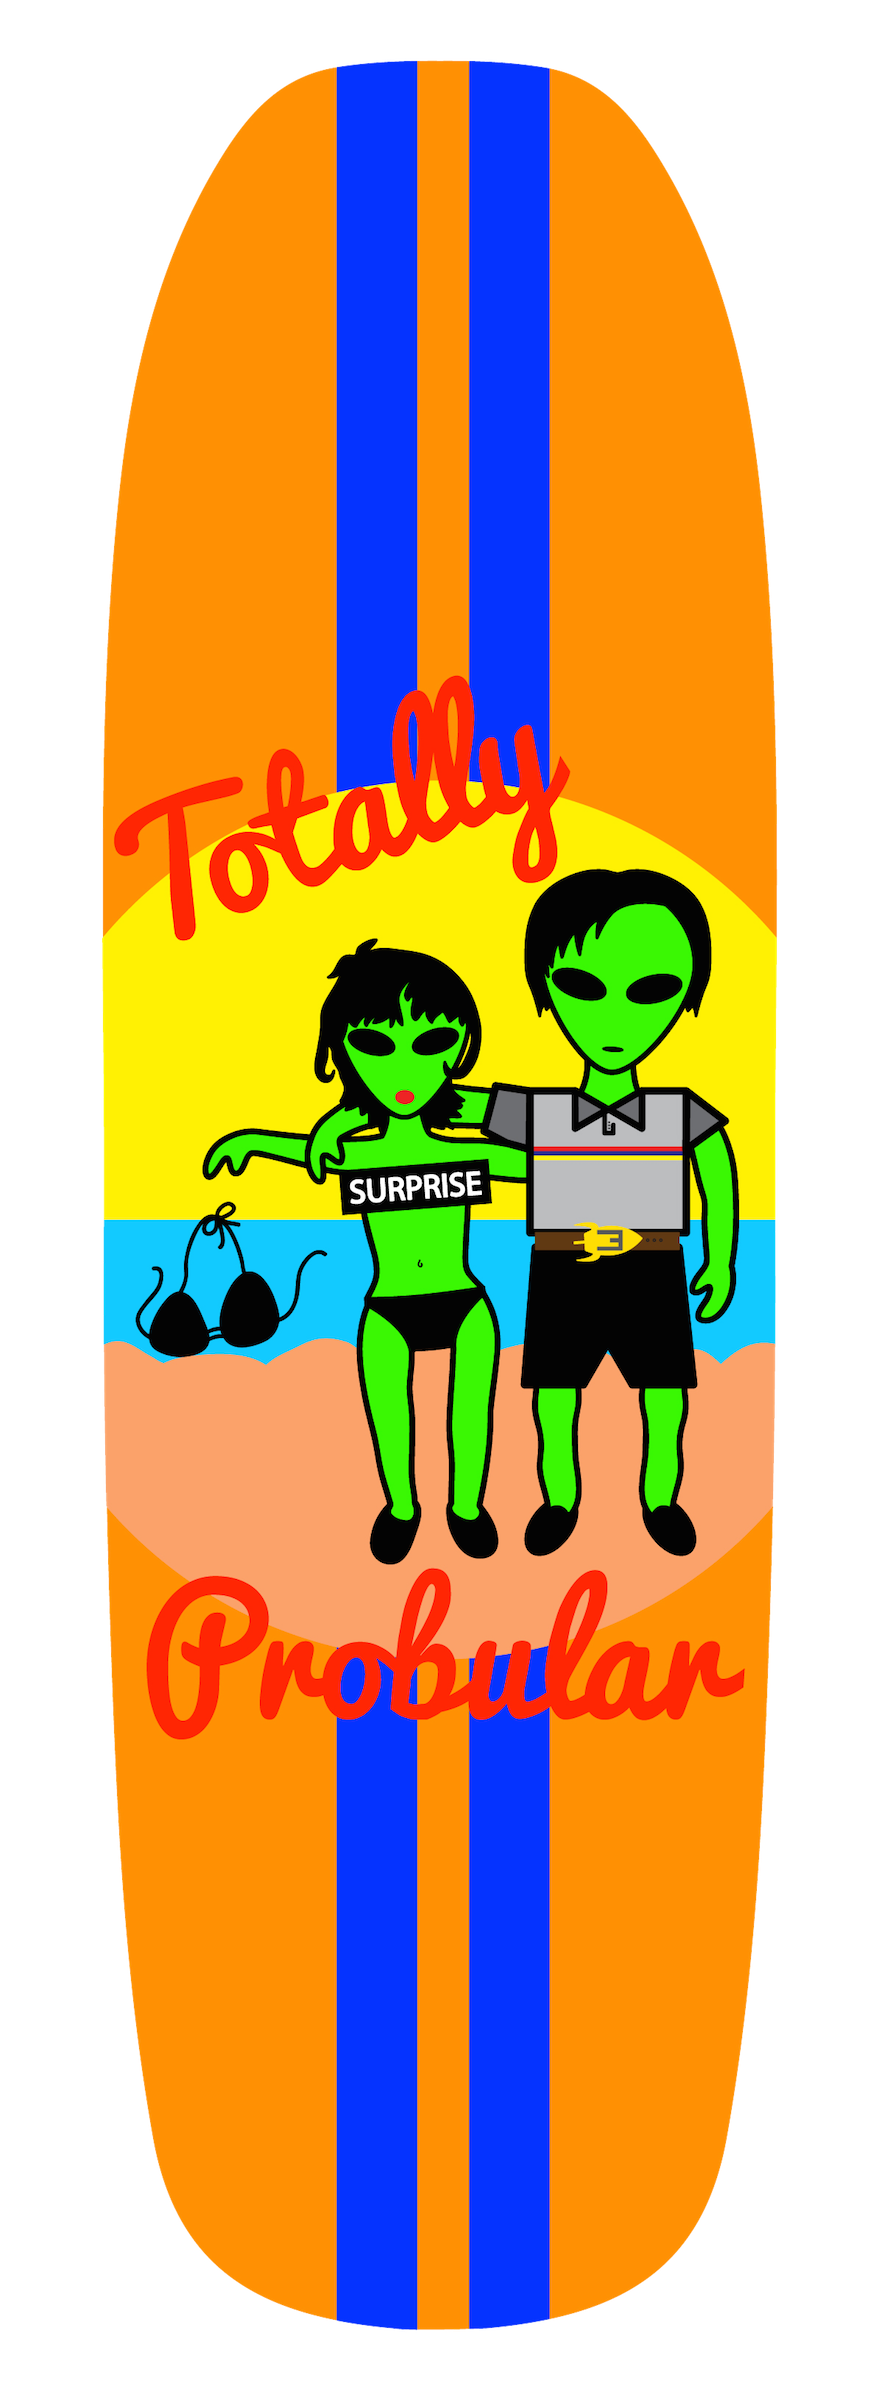
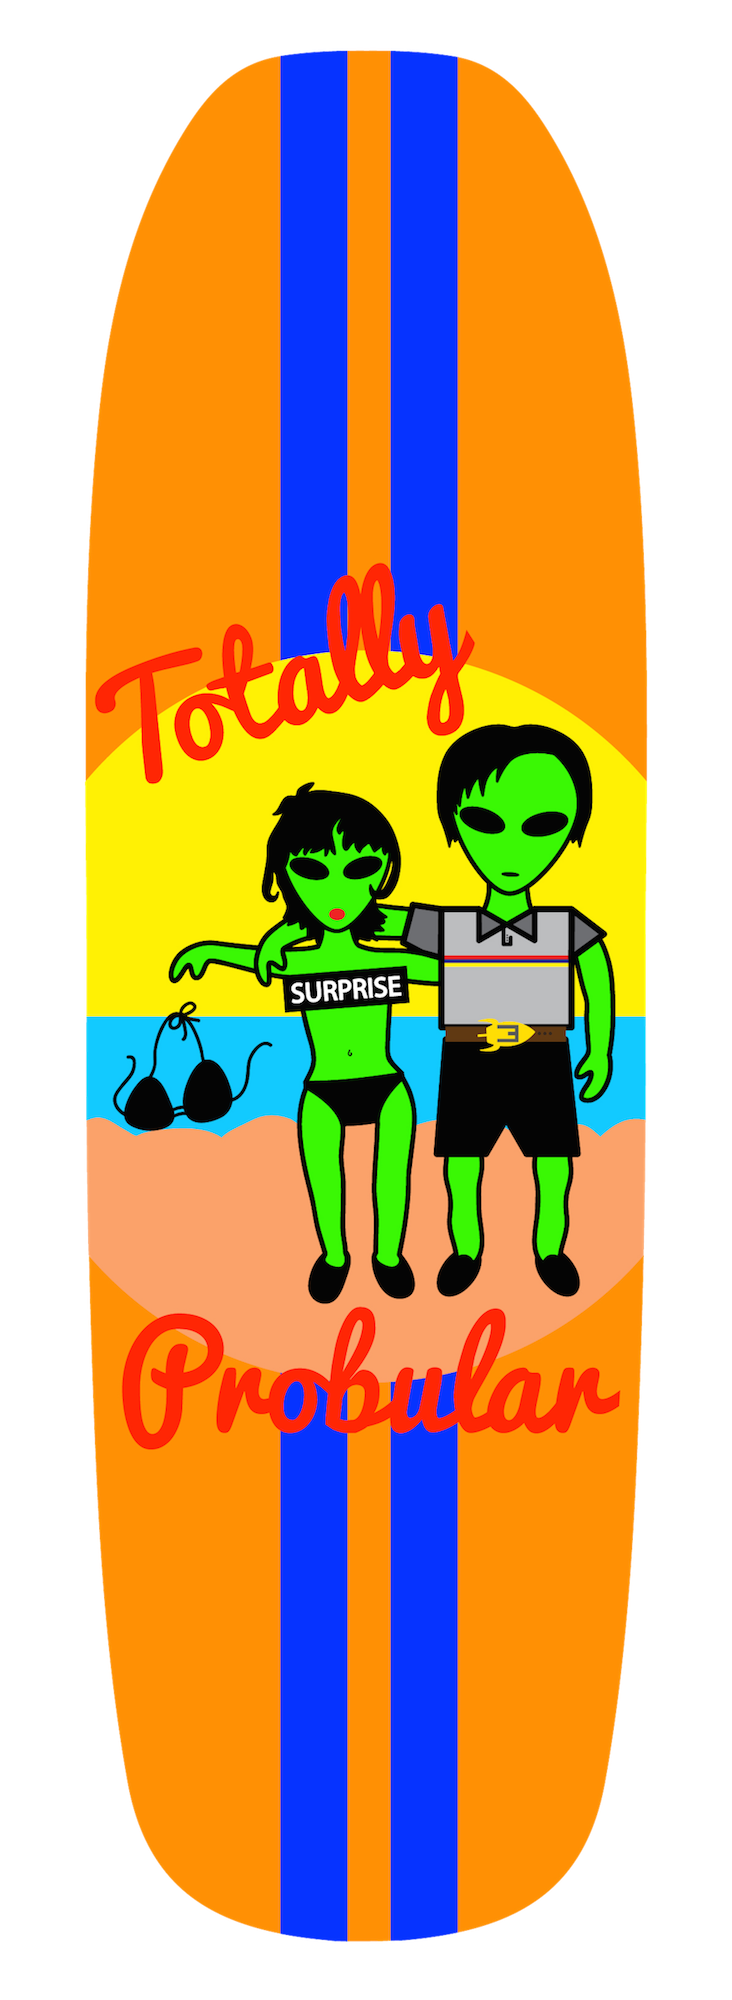
updated

Changed region(s): [[0.7814, 0.496, 0.8115, 0.527]]

diff --git a/designs.html b/designs.html
@@ -100,6 +100,7 @@
 						<br>
 							<div id="links-designs">
 								<h2 class="sub-header-size">Logos:</h2>
+  							
    							
     							<a href="images/logos/22.jpg" title="Yo! Where's My Car? App Logo" data-gallery><img src="images/logos/22.jpg" width="250" alt="Yo! Where's My Car? App Logo">
     							</a>
@@ -227,19 +228,18 @@
    									<a href="images/skateboards/girlfriend.png" title="Dreamwood Sk8erboards Girlfriend Graphic" data-gallery><img src="images/skateboards/girlfriend.png" width="250" alt="Dreamwood Sk8erboards Girlfriend Graphic">
     								</a>
     												
-   								
-   									<a href="images/graphics/image9.png" title="Lakai Contest Shirt" data-gallery><img src="images/graphics/image9.png" width="250" alt="Lakai Contest Shirt">
-    								</a>
-    								
     								
     								<a href="images/skateboards/curbalious.png" title="Dreamwood Sk8erboards Curbalious Graphic" data-gallery><img src="images/skateboards/curbalious.png" width="250" alt="Dreamwood Sk8erboards Curbalious Graphic">
+    								</a>
+    								
+    								<a href="images/graphics/image9.png" title="Lakai Contest Shirt" data-gallery><img src="images/graphics/image9.png" width="250" alt="Lakai Contest Shirt">
     								</a>
     								
     								
     								<a href="images/skateboards/bc-board.png" title="BC Skate Shop Deck Graphic" data-gallery><img src="images/skateboards/bc-board.png" width="250" alt="BC Skate Shop Deck Graphic">
     								</a>
     								
-    								<a href="images/skateboards/surprise.png" title="Surprise Deck Graphic" data-gallery><img src="images/skateboards/surprise.png" width="250" alt="Surprise Deck Graphic">
+    								<a href="images/skateboards/surprise.png" title="Surprise Deck Graphic" data-gallery><img src="images/skateboards/surprise.png" width="185" alt="Surprise Deck Graphic">
     								</a>
     								
  
@@ -260,6 +260,9 @@
 						<h1 class="align-center header-size"><u>Graphics:</u></h1>
 						<br><br>
 							
+    							<h2 class="sub-header-size">Logos:</h2>
+  							
+   							
     							<a href="images/logos/22.jpg" title="Yo! Where's My Car? App Logo" data-gallery><img src="images/logos/22.jpg" width="250" alt="Yo! Where's My Car? App Logo">
     							</a>
     							
@@ -294,13 +297,7 @@
     							</a>
     							    								
     							<br><br>
-    							
-    							<a href="images/businesscards/cg-bc.jpg" title="Carter Guthrie Business Card" data-gallery><img src="images/businesscards/cg-bc.jpg" width="250" alt="Carter Guthrie Business Card">
-    							</a>
-    							
-    								
-    							<br><br>
-    							
+    	
     							<a href="images/logos/entergalatic-express-02.jpg" title="Entergalatic Express Logo" data-gallery><img src="images/logos/entergalatic-express-02.jpg" width="250" alt="Entergalatic Express Logo">
     							</a>
     								
@@ -312,11 +309,6 @@
     							<br><br>
     							
     							<a href="images/logos/m00n-logo-07.png" title="m00n Clothing Logo" data-gallery><img src="images/logos/m00n-logo-07.png" width="250" alt="m00n Clothing Logo">
-    							</a>
-    								
-    							<br><br>
-    							
-    							<a href="images/businesscards/qs-bc.jpg" title="Quantum Studio Business Card" data-gallery><img src="images/businesscards/qs-bc.jpg" width="250" alt="Quantum Studio Business Card">
     							</a>
     								
     							<br><br>
@@ -354,35 +346,73 @@
     							<a href="images/logos/text-toppings-text-in-pizza-01.jpg" title="Text Toppings Logo" data-gallery><img src="images/logos/text-toppings-text-in-pizza-01.jpg" width="250" alt="Text Toppings Logo">
     							</a>
     								
-    							<br><br>
-    							
-    							<a href="images/graphics/image5.jpg" title="The Intro Album Cover" data-gallery><img src="images/graphics/image5.jpg" width="250" alt="The Intro Album Cover">
-    							</a>
-    								
-    							<br><br>
-    							
-    							<a href="images/graphics/image6.gif" title="The Intro Album Cover" data-gallery><img src="images/graphics/image6.gif" width="250" alt="The Intro Album Cover">
-    							</a>
-    								
-    							<br><br>
-    							
-    							<a href="images/graphics/image7.gif" title="The Intro Album Cover" data-gallery><img src="images/graphics/image7.gif" width="250" alt="The Intro Album Cover">
-    							</a>
-    								
-    							<br><br>
-    							
-    							<a href="images/graphics/image9.png" title="Lakai Contest Shirt" data-gallery><img src="images/graphics/image9.png" width="250" alt="Lakai Contest Shirt">
-    							</a>
-    								
-    							<br><br>
+    							<br><br>		
     							
     							<a href="images/graphics/image10.gif" title="Sk8tarded Logo Animation" data-gallery><img src="images/graphics/image10.gif" width="250" alt="Sk8tarded Logo Animation">
     							</a>
     								
+    						
+    							<br><br>
+								<h2 class="sub-header-size">Business Cards:</h2>
+ 								
+ 									<a href="images/businesscards/cg-bc.jpg" title="Carter Guthrie Business Card" data-gallery><img src="images/businesscards/cg-bc.jpg" width="250" alt="Carter Guthrie Business Card">
+    								</a>
+    								
+    								<br><br>
+    								
+    								<a href="images/businesscards/qs-bc.jpg" title="Quantum Studio Business Card" data-gallery><img src="images/businesscards/qs-bc.jpg" width="250" alt="Quantum Studio Business Card">
+    								</a>
+    								
+    							
+  								<br><br>
+   								<h2 class="sub-header-size">Album Covers:</h2>
+   								
+   									<a href="images/graphics/businessasusual-sk8tardeddesigns.gif" title="Business as Usual Album Cover" data-gallery><img src="images/graphics/businessasusual-sk8tardeddesigns.gif" width="250" alt="Business as Usual Album Cover">
+    								</a>
+    								
+    								<br><br>
+    							
+    								<a href="images/graphics/image5.jpg" title="The Intro Album Cover" data-gallery><img src="images/graphics/image5.jpg" width="250" alt="The Intro Album Cover">
+    								</a>
+    								
     							<br><br>
     							
-    							<a href="images/graphics/businessasusual-sk8tardeddesigns.gif" title="Business as Usual Album Cover" data-gallery><img src="images/graphics/businessasusual-sk8tardeddesigns.gif" width="250" alt="Business as Usual Album Cover">
-    							</a>
+    								<a href="images/graphics/image6.gif" title="The Intro Album Cover" data-gallery><img src="images/graphics/image6.gif" width="250" alt="The Intro Album Cover">
+    								</a>
+    								
+    							<br><br>
+    							
+    								<a href="images/graphics/image7.gif" title="The Intro Album Cover" data-gallery><img src="images/graphics/image7.gif" width="250" alt="The Intro Album Cover">
+    								</a>
+    								
+    							
+   								<br><br>
+   								<h2 class="sub-header-size">Skateboard Graphics:</h2>
+   									
+   									<a href="images/skateboards/girlfriend.png" title="Dreamwood Sk8erboards Girlfriend Graphic" data-gallery><img src="images/skateboards/girlfriend.png" width="250" alt="Dreamwood Sk8erboards Girlfriend Graphic">
+    								</a>
+    									
+    								<br><br>							
+   								
+   									<a href="images/graphics/image9.png" title="Lakai Contest Shirt" data-gallery><img src="images/graphics/image9.png" width="250" alt="Lakai Contest Shirt">
+    								</a>
+    								
+    								<br><br>
+    								
+    								<a href="images/skateboards/curbalious.png" title="Dreamwood Sk8erboards Curbalious Graphic" data-gallery><img src="images/skateboards/curbalious.png" width="250" alt="Dreamwood Sk8erboards Curbalious Graphic">
+    								</a>
+    								
+    								<br><br>
+    								
+    								<a href="images/skateboards/bc-board.png" title="BC Skate Shop Deck Graphic" data-gallery><img src="images/skateboards/bc-board.png" width="250" alt="BC Skate Shop Deck Graphic">
+    								</a>
+    								
+    								<br><br>
+    								
+    								<a href="images/skateboards/surprise.png" title="Surprise Deck Graphic" data-gallery><img src="images/skateboards/surprise.png" width="185" alt="Surprise Deck Graphic">
+    								</a>
+    								
+ 
     
     <br><br><br><br>
 			
